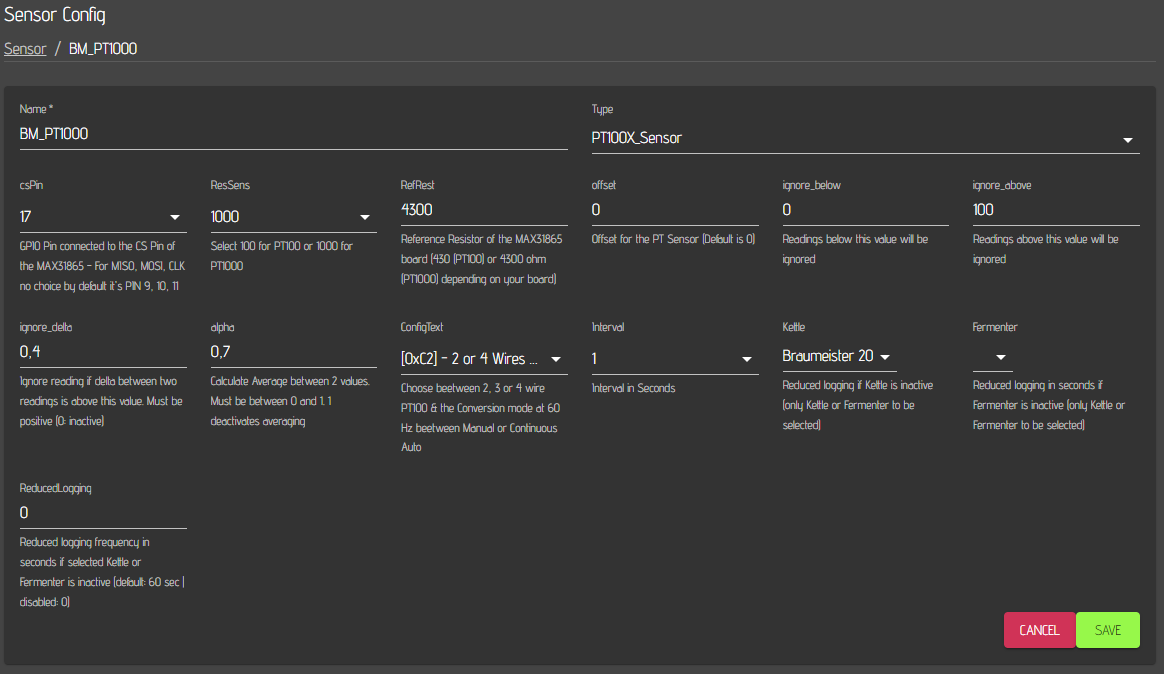
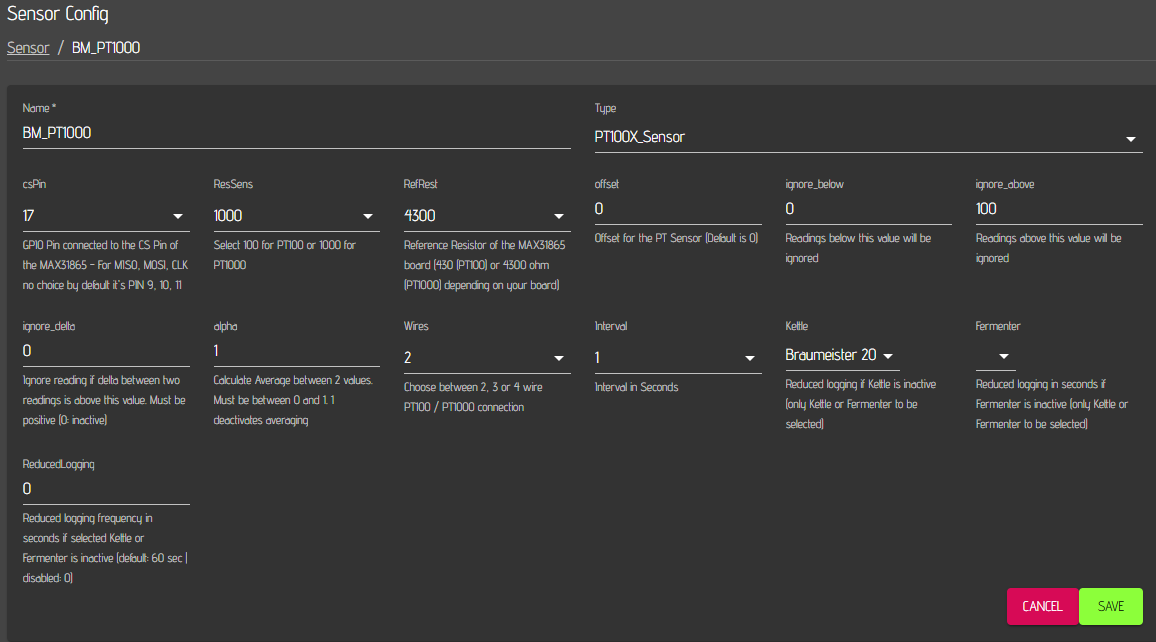
Release version 0.2.0 with new adafruit max31865 package requirement

diff --git a/setup.py b/setup.py
@@ -7,7 +7,7 @@ with open(path.join(this_directory, 'README.md'), encoding='utf-8') as f:
     long_description = f.read()
 
 setup(name='cbpi4-pt100x',
-      version='0.2.0.a7',
+      version='0.2.0',
       description='CraftBeerPi4 PT100/PT1000 Sensor Plugin',
       author='Alexander Vollkopf',
       author_email='avollkopf@web.de',

diff --git a/README.md b/README.md
@@ -1,5 +1,3 @@
-# !!! THIS VERSION IS CURRENTLY ONLY WORKING WITH THE CBPI gpiotest branch !!!
-
 # Craftbeerpi4 Plugin for PT100/PT1000 Sensor
 
 PT100 / PT1000 probes using an adafruit based max31865 chip.  for wiring go to [this page](https://learn.adafruit.com/adafruit-max31865-rtd-pt100-amplifier/).
@@ -9,6 +7,8 @@ You will need to set the reference resistors on the craftbeerpi hardware page!  
 Using a max31865 board like: https://learn.adafruit.com/adafruit-max31865-rtd-pt100-amplifier/
 
 ## Software installation:
+
+This version requires Craftbeerpi V4 version 4.6.0 and above.
 
 Please have a look at the [Craftbeerpi4 Documentation](https://openbrewing.gitbook.io/craftbeerpi4_support/readme/plugin-installation)
 
@@ -24,9 +24,11 @@ Please have a look at the [Craftbeerpi4 Documentation](https://openbrewing.gitbo
 - mosiPin = 10
 - clkPin = 11
 
+SPI must be enabled on the Pi via raspi-config.
+
 The code is installing the adafruit circuitpython max31865 library. It requires the RPi.GPIO package for older Pis (<=4) nd the rpi-lgpio pacakge for the Pi 5.
 
-The installation routine (setup.py in cbpi has been modified to match these requirements) (currently it is only valid for the gpiotest branch). Existing installations must be redone, but your config can be still used (pipx uninstall cbpi4 and then install cbpi4 as described in the documentation. This will be updated later. Then install your plugins)
+The installation routine (setup.py in cbpi has been modified to match these requirements). Existing installations on Pi4 and older boards must be redone, but your config can be still used (pipx uninstall cbpi4 and then install cbpi4 as described in the documentation. This will be updated later. Then install your plugins)
 
 ## Sensor Configuration
 
@@ -34,7 +36,7 @@ The sensor must be configured on the hardware page. The following parameters mus
 
 - csPin: The BCM number of the GPIO you max board cs pin is connected to.
 - ResSens: Reistance in ohm of your sensor. Select 1000 for PT1000 or 100 for PT100.
-- RefRest: Resistance in ohm of your reference resistor on your max board. Typically 4300 for a PT100 board and 430 for a PT100 board. The value is typically listed on the resistor of your board (Please have a look [here](https://www.hobby-hour.com/electronics/smdcalc.php?fbclid=IwAR1frc48ImXjxPMLqCeVPX2SZEEDDhXrLxRsUWpZ_e1XeJnrN20qRXZOEo4) for smd resistance codings.)
+- RefRest: Resistance in ohm of your reference resistor on your max board. 4300 for a PT100 board and 430 for a PT100 board. The value is typically listed on the resistor of your board (Please have a look [here](https://www.hobby-hour.com/electronics/smdcalc.php?fbclid=IwAR1frc48ImXjxPMLqCeVPX2SZEEDDhXrLxRsUWpZ_e1XeJnrN20qRXZOEo4) for smd resistance codings.)
 - offset: Defines a temperature offset for your temp probe.
 - ignore_above: Ignores Temp readings above this value (0: deactivated)
 - ignore_below: Ignores Temp readings below this value (0: deactivated)
@@ -43,7 +45,7 @@ The sensor must be configured on the hardware page. The following parameters mus
 - Wires: You need to set this parameter to the configuration of your RTD (2,3 or 4 wire).
 - Interval: defines the frequency of sensor readings in seconds.
 - Kettle/Fermenter: You can select a Kettle OR Fermenter if you want to activate reduced sensor logging during inactivity of the Kettle / Fermenter
-- Reducedlogging: Defines the logging interval for reduced logging in seconds (e.g. 300 would result in logging every 5 Minutes when the Kettle / Fermenter logic is not acitve) (0: no sensor logging during inactivity)
+- Reducedlogging: Defines the logging interval for reduced logging in seconds (e.g. 300 would result in logging every 5 Minutes when the Kettle / Fermenter logic is not active) (0: no sensor logging during inactivity)
 
 
 Please note that the max board delivers readings above 900C if no sensor is connected to the board.
@@ -52,7 +54,7 @@ Please note that the max board delivers readings above 900C if no sensor is conn
 
 ### Changelog:
 
-- 27.02.25: (0.2.0.a5) Retire the old mx31865 library and move to the adafruit-circuitpython-max31865 library. This should prevent the false readings and the jumps between data points
+- 20.03.25: (0.2.0) Retire the old mx31865 library and move to the adafruit-circuitpython-max31865 library. This should prevent the false readings and the jumps between data points (requires Server 4.6.0 for Pi4 and older boards)
 - 25.06.23: (0.1.10) Better logging description on high delta value
 - 09.06.23: (0.1.9) Updated descriptions for Sensor parameters on Hardware page. Updated README.
 - 28.03.23: (0.1.8) No logging options in case of Kettle or Fermenter inactivity (set reducedlogging to 0)
